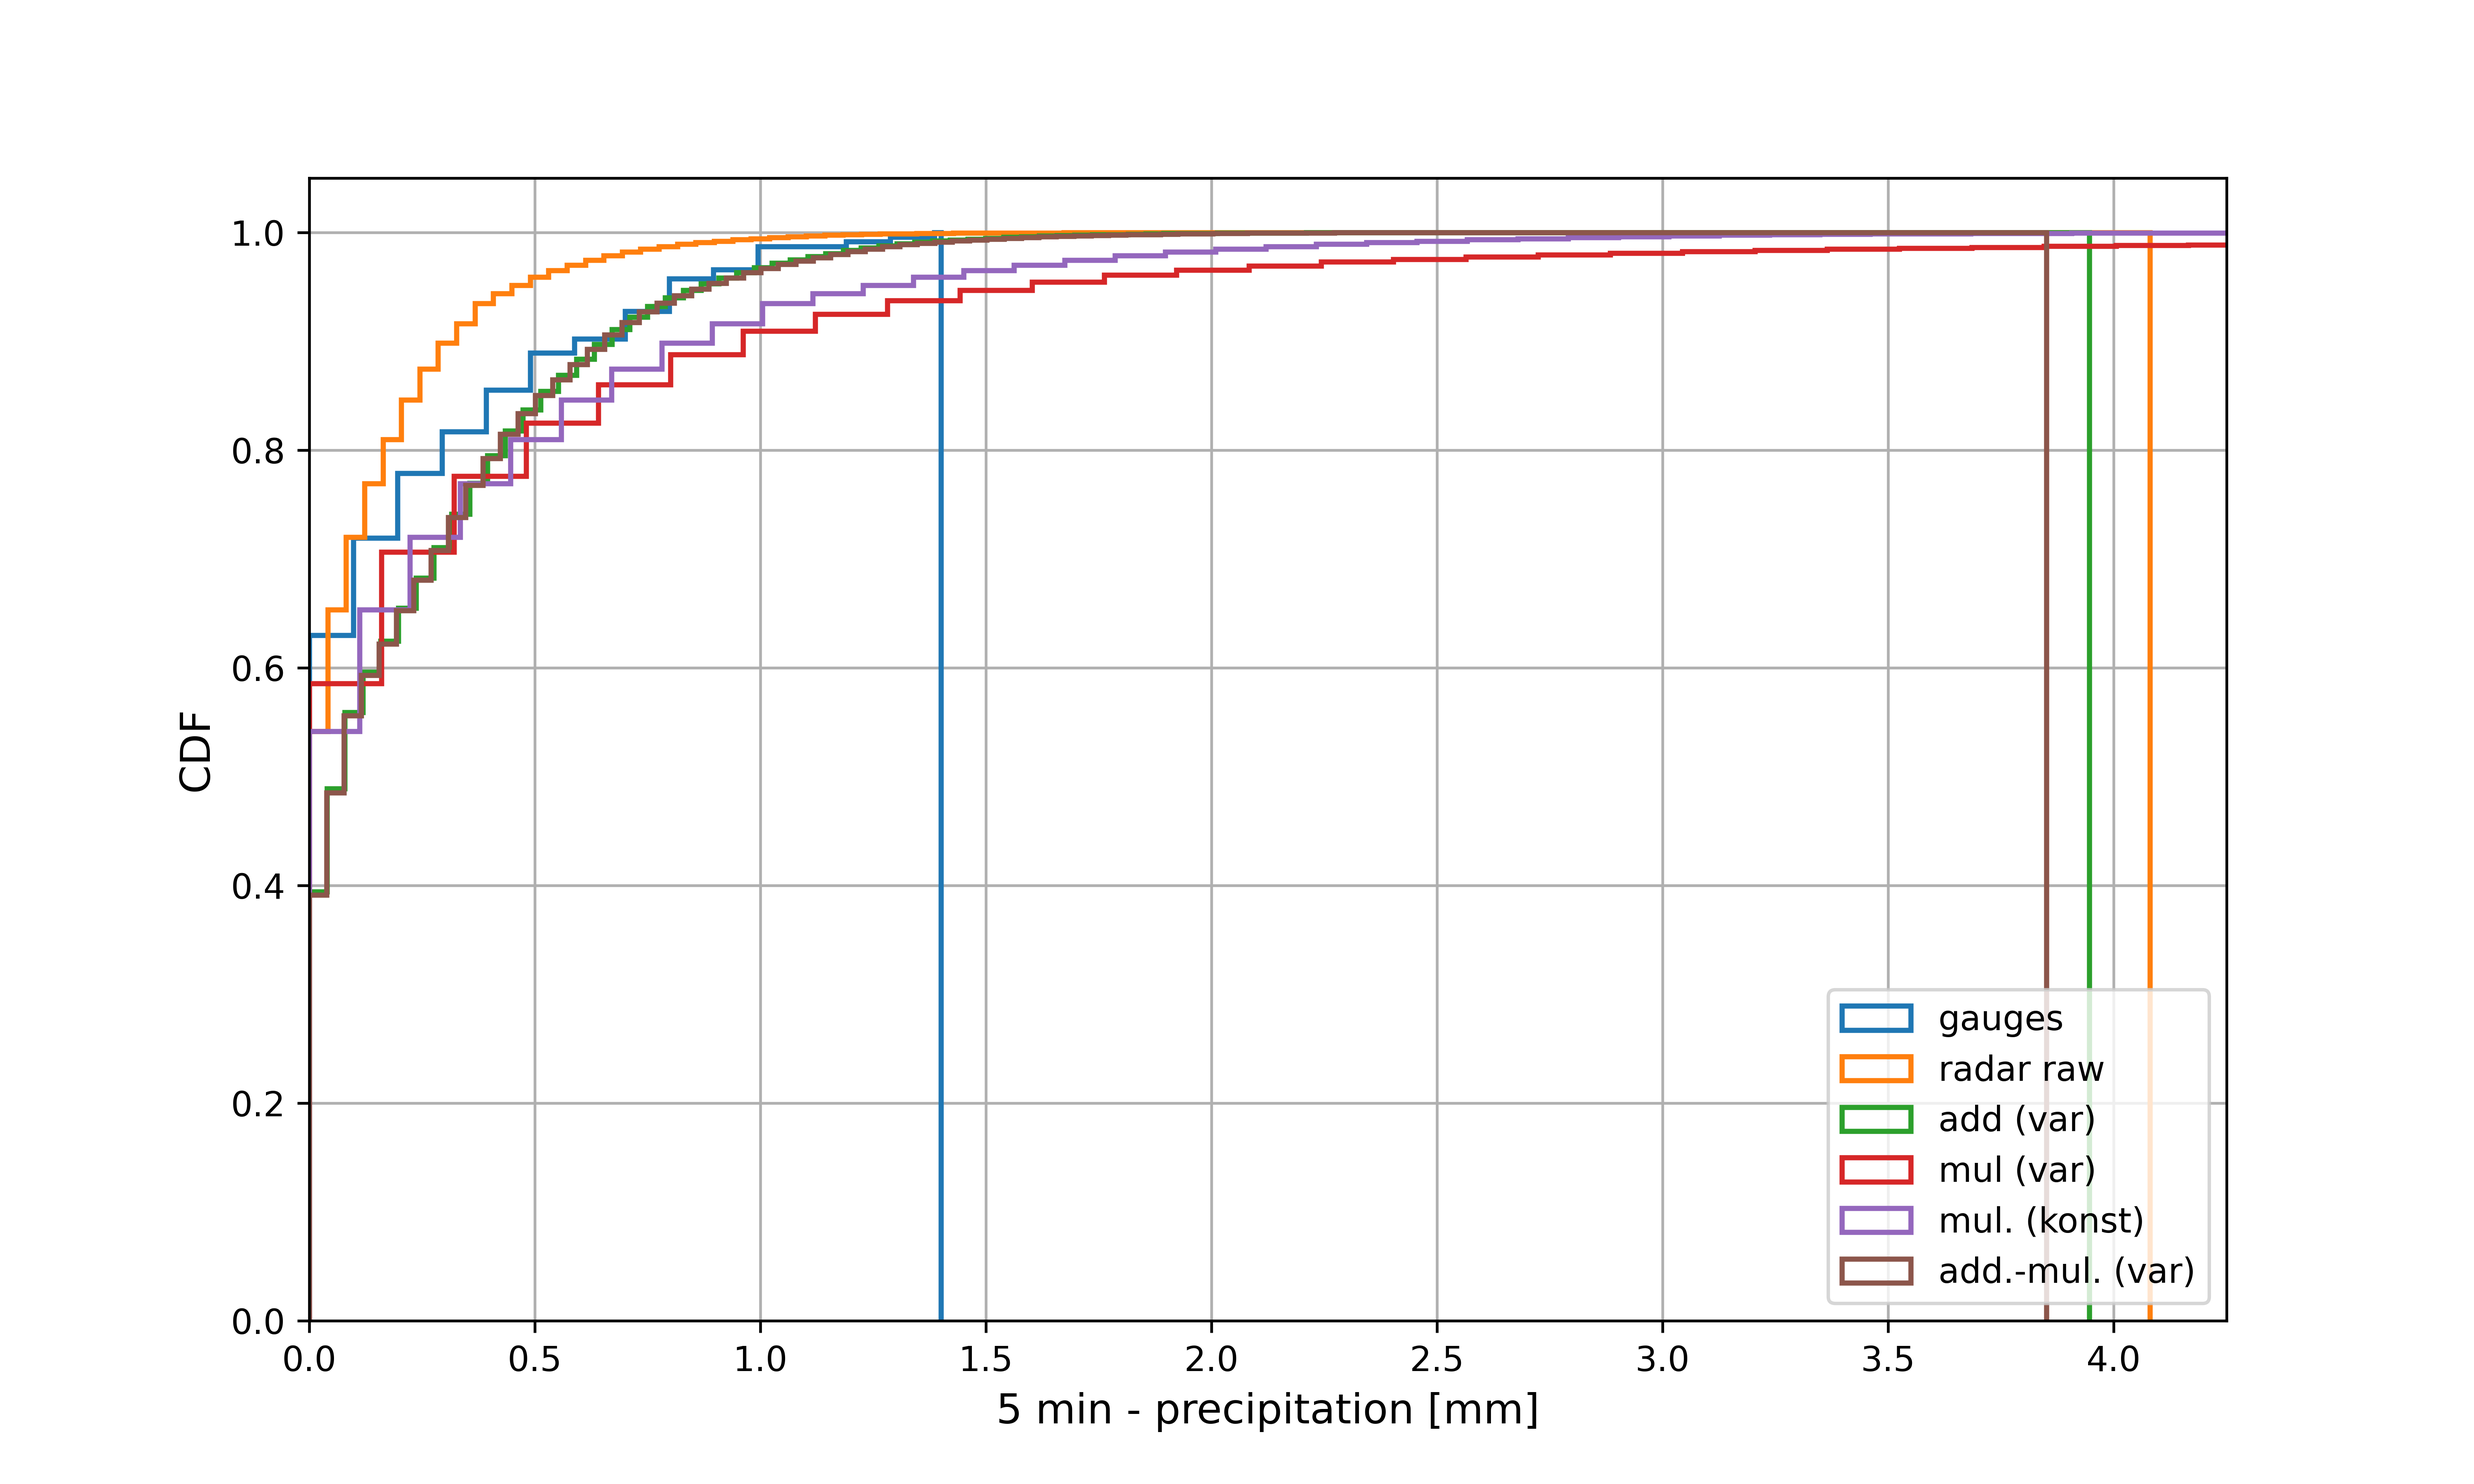
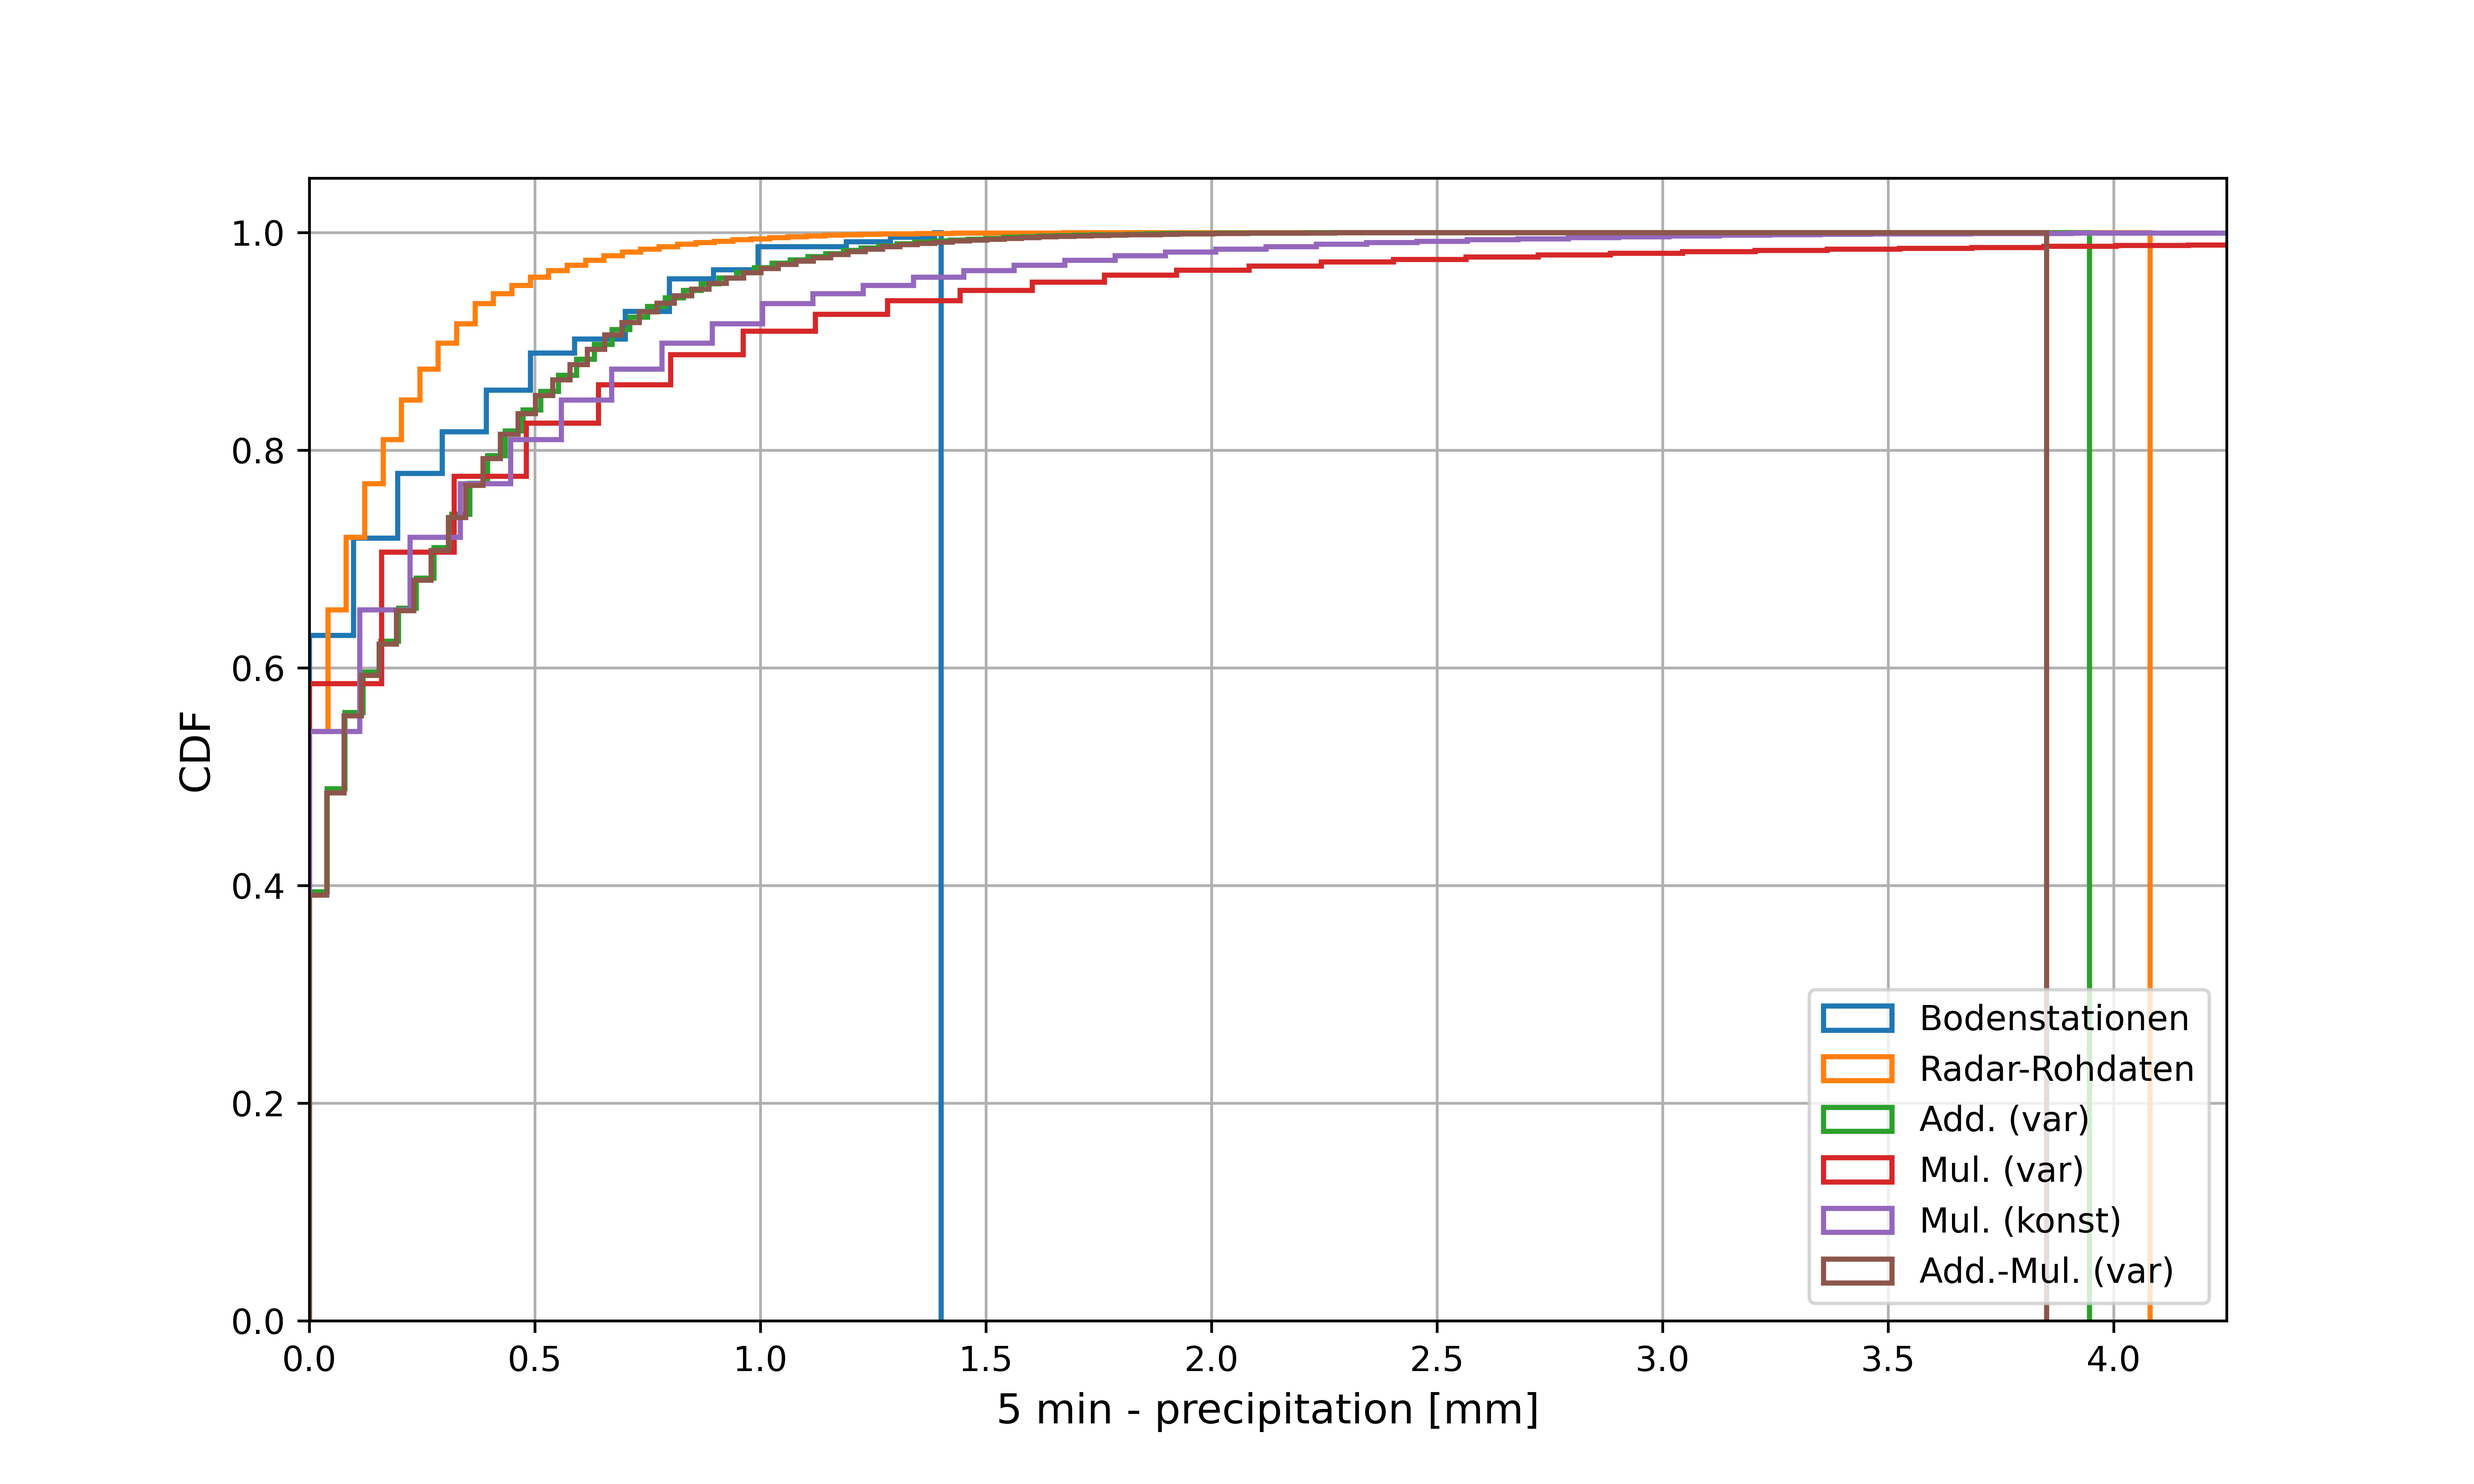
Add colorbar for masked adjustment plot.

Changed region(s): [[0.7168, 0.6533, 0.9038, 0.8711]]

diff --git a/code/PlotComposite.py b/code/PlotComposite.py
@@ -6,12 +6,16 @@ import wradlib as wrl
 import matplotlib.pylab as pl
 import matplotlib.pyplot as plt
 from sklearn.metrics import mean_squared_error
+from pyproj import Proj
+import shapefile as shp
 
 from ReadGaugeData import read_gauges_60min, read_gauges_1min, gaugearray
 from PlotAdjustment import plot_adjusted_data, plot_adjust_errors
 from func import max_from_arrays, plot_grid
 from func import clutter_gabella, attcorr,  rain_depths
+from colorbars import cm, cm_mask
 
+myProj = Proj("+proj=utm +zone=33 +north +ellps=WGS84 +datum=WGS84 +units=m +no_defs")
 
 print("Composite and adjustment.")
 
@@ -142,6 +146,48 @@ plot_grid(boundary_mask, gaugedata, xgrid, ygrid, "Boundary mask", "boundarymask
 plot_adjusted_data(xgrid, ygrid, gaugedata, adjusted_add_arr, adjusted_mul_arr, adjusted_mulcon_arr, adjusted_mix_arr, minutes)
 plot_adjust_errors(xgrid, ygrid, gaugedata, radar, adjusted_add_arr, adjusted_mul_arr, adjusted_mulcon_arr, adjusted_mix_arr, minutes)
 
+adjusted_add_arr[adjusted_add_arr<0] = 0
+pl.figure(figsize=(10, 8))
+ax = pl.subplot(111, aspect="equal")
+# add radar data
+
+pm = ax.pcolormesh(xgrid, ygrid, np.add(adjusted_add_arr,boundary_mask), cmap=cm, vmin=0, vmax=4.5)
+cbar = pl.colorbar(pm)
+cm.set_bad(color='gray')
+cbar.ax.tick_params(labelsize=14) 
+cbar.set_label(f"{minutes} min - rain depths (mm)", fontsize=14)
+# add gauge stations
+pl.scatter(gaugedata['easting'], gaugedata["northing"],  marker='+', s=3, c="k", alpha=0.5)
+# add country shp
+sf = shp.Reader("geodata/DEU_adm1_multiline.shp")
+lines_seperated = []
+for shape in sf.shapes():
+    all_parts = shape.parts
+    all_parts.append(len(shape.points[:]))
+    for i in range(len(shape.parts)-1):
+        line_begin = all_parts[i]
+        line_end = all_parts[i+1]-1
+        lines_seperated.append(shape.points[line_begin:line_end])
+        x = [i[0] for i in shape.points[line_begin:line_end]]
+        y = [i[1] for i in shape.points[line_begin:line_end]]
+        # reproject into UTM
+        east, north = [], []
+        for j in range(len(x)):
+            e, n = myProj(x[j], y[j])
+            east.append(e)
+            north.append(n)
+        plt.plot(east, north, lw=0.5, c="k")
+pl.xlabel("Easting (m)", fontsize=14)
+pl.ylabel("Northing (m)", fontsize=14)
+ax.ticklabel_format(useOffset=False, style='plain')
+ax.tick_params(axis='both', which='major', labelsize=14)
+pl.xlim(50000, 600000)
+pl.ylim(min(ygrid), 6000000)
+pl.grid(lw=0.5, zorder=10)
+pl.title("Additive adjustment\n(spatially variable)", fontsize=14)
+pl.savefig(f"images/add_60min_new", dpi=600)
+    
+    
 # CDF
 fig = pl.figure(figsize=(10, 6))
 plt.hist(obs_1d, 100, density=True, histtype="step", cumulative=True, label="Bodenstationen", linewidth=1.5)
@@ -153,8 +199,8 @@ plt.hist(np.add(adjusted_mix_arr, boundary_mask).reshape([700*700]), 100, densit
 plt.legend(loc="lower right")
 plt.grid()
 plt.xlim([0, 4.25])
-# plt.xlabel("5 min - precipitation [mm]", fontsize=12)
-plt.xlabel("5 min - Niederschlagssumme [mm]", fontsize=12)
-# plt.ylabel("CDF", fontsize=12)
-plt.ylabel("kumulierte, empirische Wahrscheinlichkeit", fontsize=12)
+plt.xlabel("5 min - precipitation [mm]", fontsize=12)
+# plt.xlabel("5 min - Niederschlagssumme [mm]", fontsize=12)
+plt.ylabel("CDF", fontsize=12)
+# plt.ylabel("kumulierte, empirische Wahrscheinlichkeit", fontsize=12)
 plt.savefig("images/adjustment_eval", dpi=600)

diff --git a/code/colorbars.py b/code/colorbars.py
@@ -5,8 +5,10 @@ cm = LinearSegmentedColormap.from_list("new_jet", [(1,1,1,0), (0,0.19,1), (0,0.6
 
 cm_binary = LinearSegmentedColormap.from_list("cm_binary", [(1,1,1,0), (1,0,0)], N=2) 
 
-cm_latest = LinearSegmentedColormap.from_list("cm_dwdradar", ["white", "blue","blue","blue","blue","blue","blue","blue","blue","blue",
-                                                          "royalblue","royalblue","royalblue","royalblue","royalblue","royalblue","royalblue","royalblue","royalblue","royalblue",                                                        
+cm_mask = LinearSegmentedColormap.from_list("cm_binary", [(1,1,1,0), (0,0,0,0.3)], N=2) 
+
+cm_latest = LinearSegmentedColormap.from_list("cm_dwdradar", ["white", "white","royalblue","royalblue","royalblue","royalblue","royalblue","royalblue","royalblue","royalblue",
+                                                          "cornflowerblue","cornflowerblue","cornflowerblue","cornflowerblue","cornflowerblue","cornflowerblue","cornflowerblue","cornflowerblue","cornflowerblue","cornflowerblue",                                                        
                                                           "skyblue","skyblue","skyblue","skyblue","skyblue","skyblue","skyblue","skyblue","skyblue","skyblue",
                                                           "paleturquoise","paleturquoise","paleturquoise","paleturquoise","paleturquoise","paleturquoise","paleturquoise","paleturquoise","paleturquoise","paleturquoise",
                                                           "darkgreen","darkgreen","darkgreen","darkgreen","darkgreen","darkgreen","darkgreen","darkgreen","darkgreen","darkgreen",
